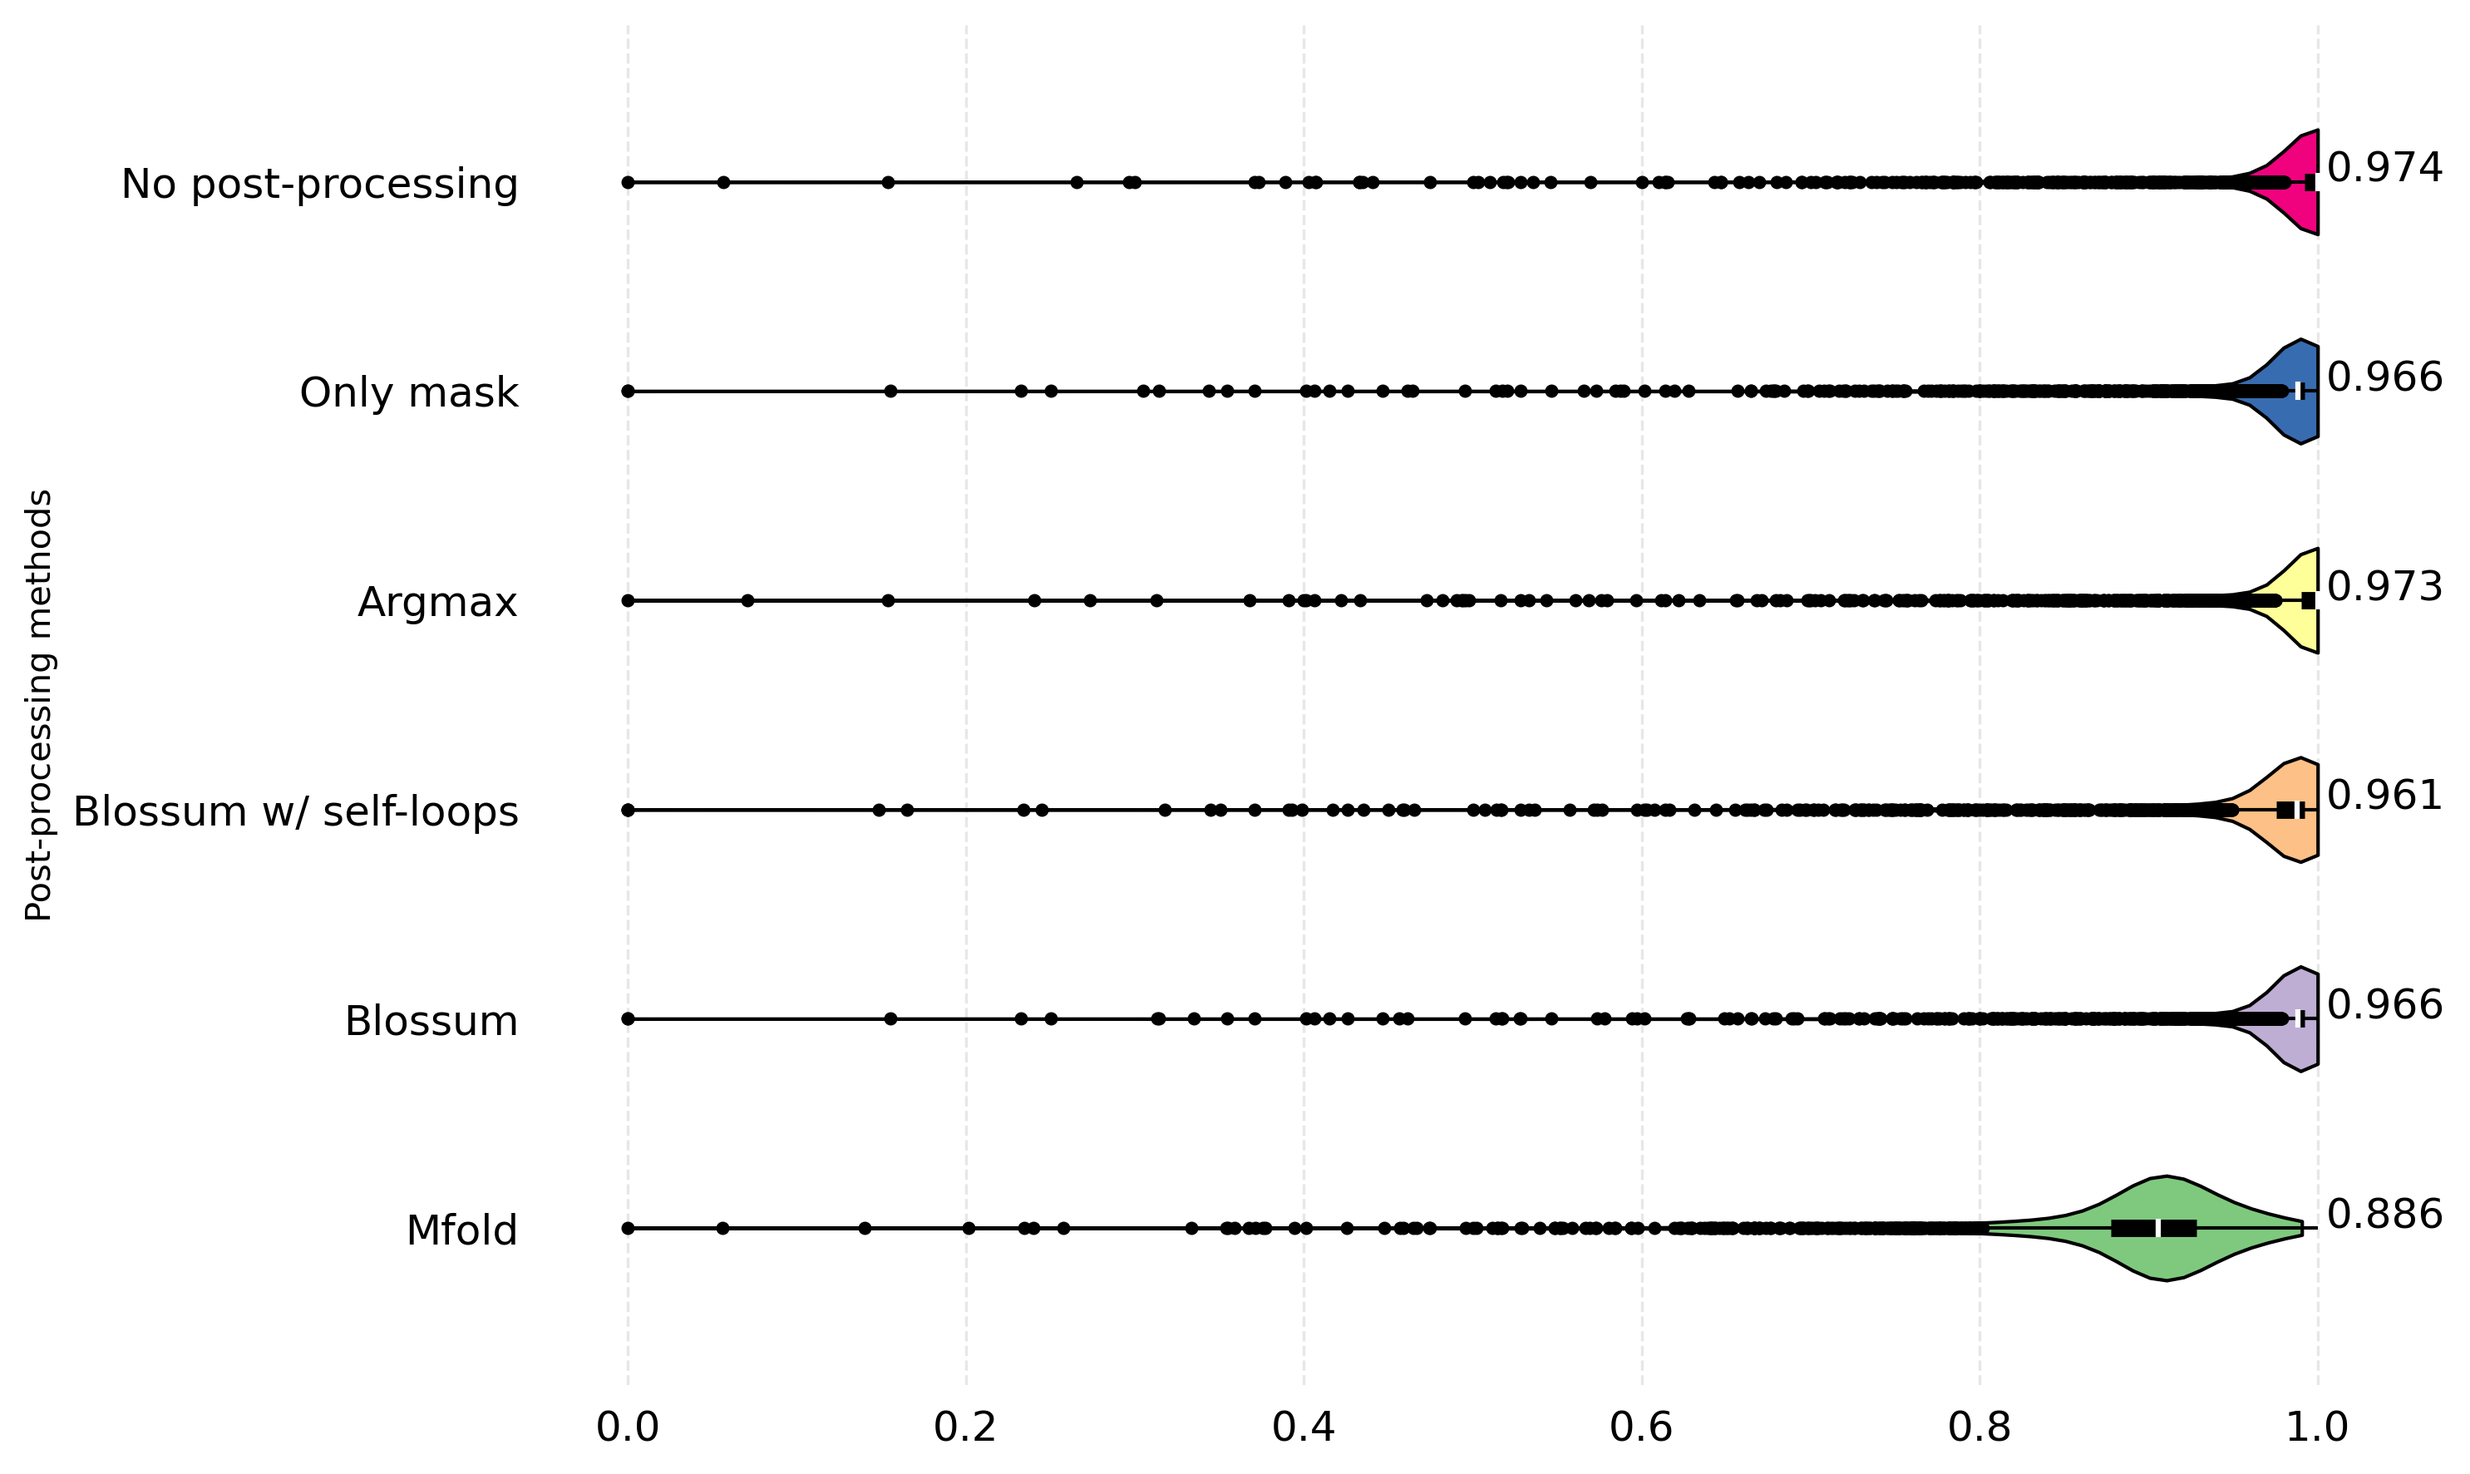
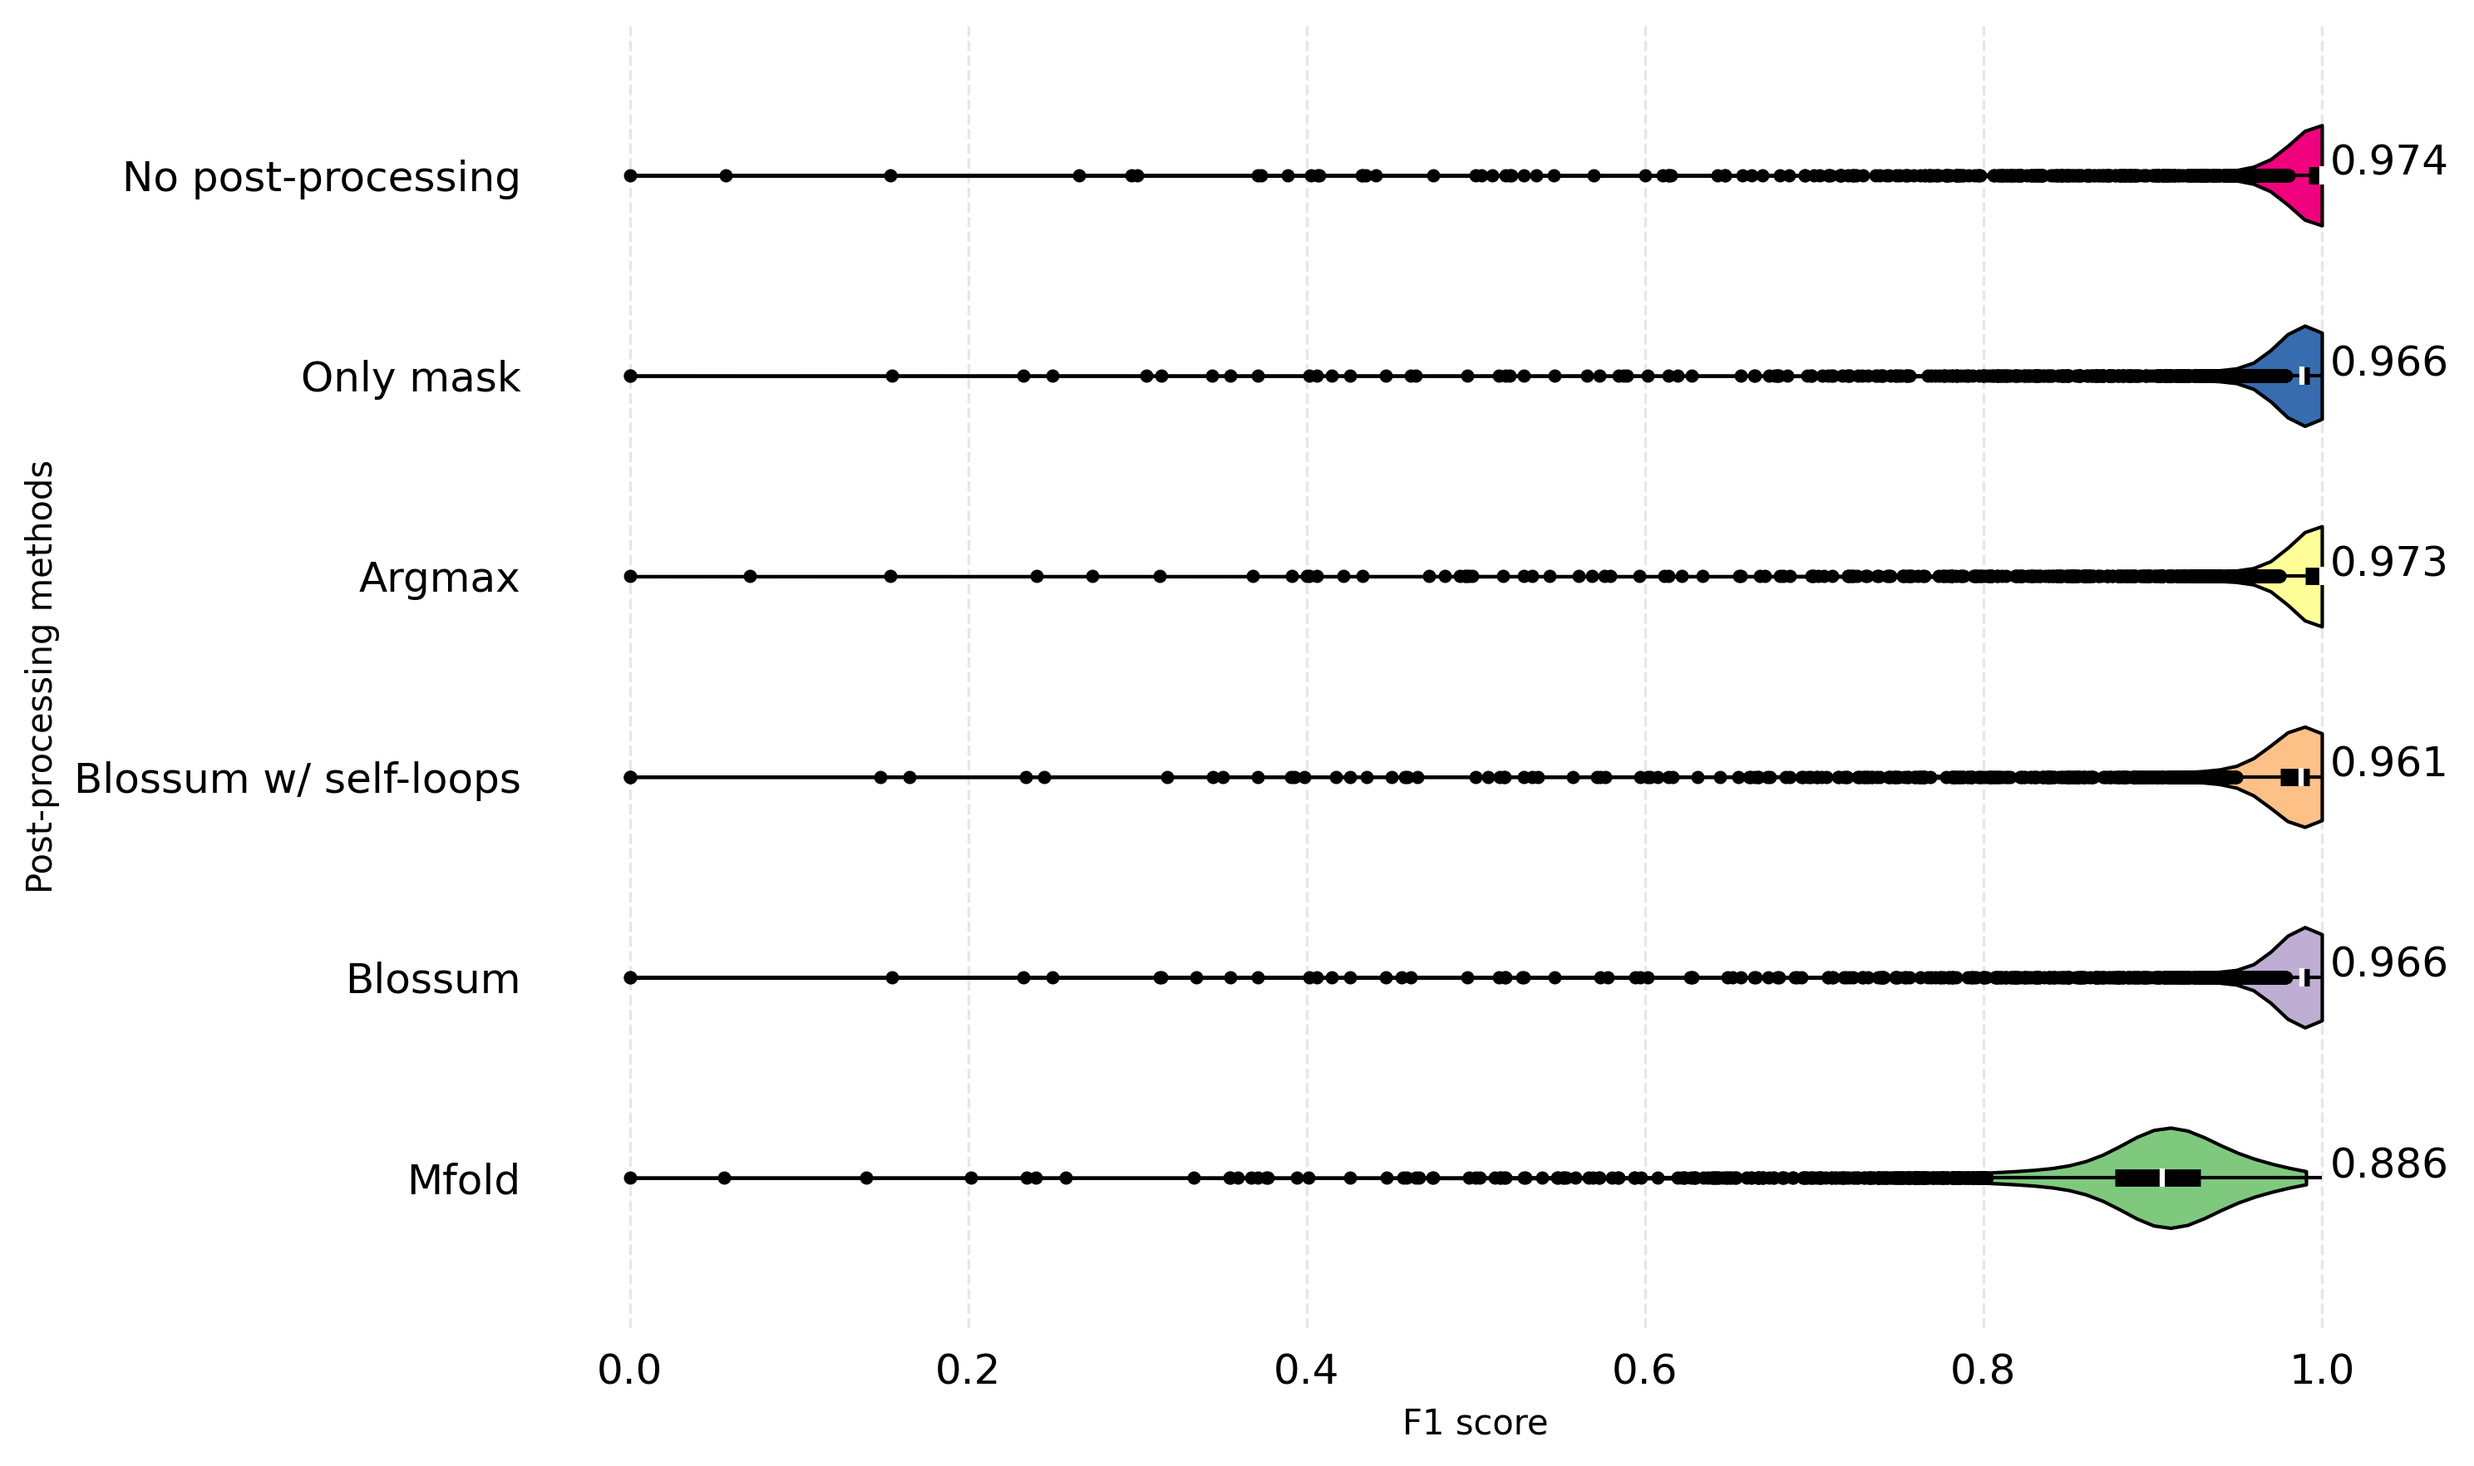
Added label to violin plot

diff --git a/scripts/utils/plots.py b/scripts/utils/plots.py
@@ -232,6 +232,7 @@ def set_axis_style(ax, labels: list, ylabel: str) -> None:
   ax.tick_params(axis='x', labelsize = 12)
   ax.set_ylim(0.25, len(labels) + 0.75)
   ax.set_ylabel(ylabel, fontsize = 10)
+  ax.set_xlabel('F1 score', fontsize = 10)
   ax.tick_params(axis= 'both', which = 'both', bottom = False, left = False)
   ax.grid(axis = 'x', linestyle = '--', alpha = 0.3, zorder = 0)
   ax.set_axisbelow(True)
@@ -294,7 +295,7 @@ def violin_plot(df: pd.DataFrame, ylabel: str, cmap='Accent', outputfile=None) -
 
   #Set style for the axes
   labels = [name.split('_')[0] for name in df.columns]
-  set_axis_style(ax, labels, ylabel)
+  set_axis_style(ax, labels, ylabel) 
   plt.box(False)
 
   plt.subplots_adjust(bottom=0.15, wspace=0.05)
